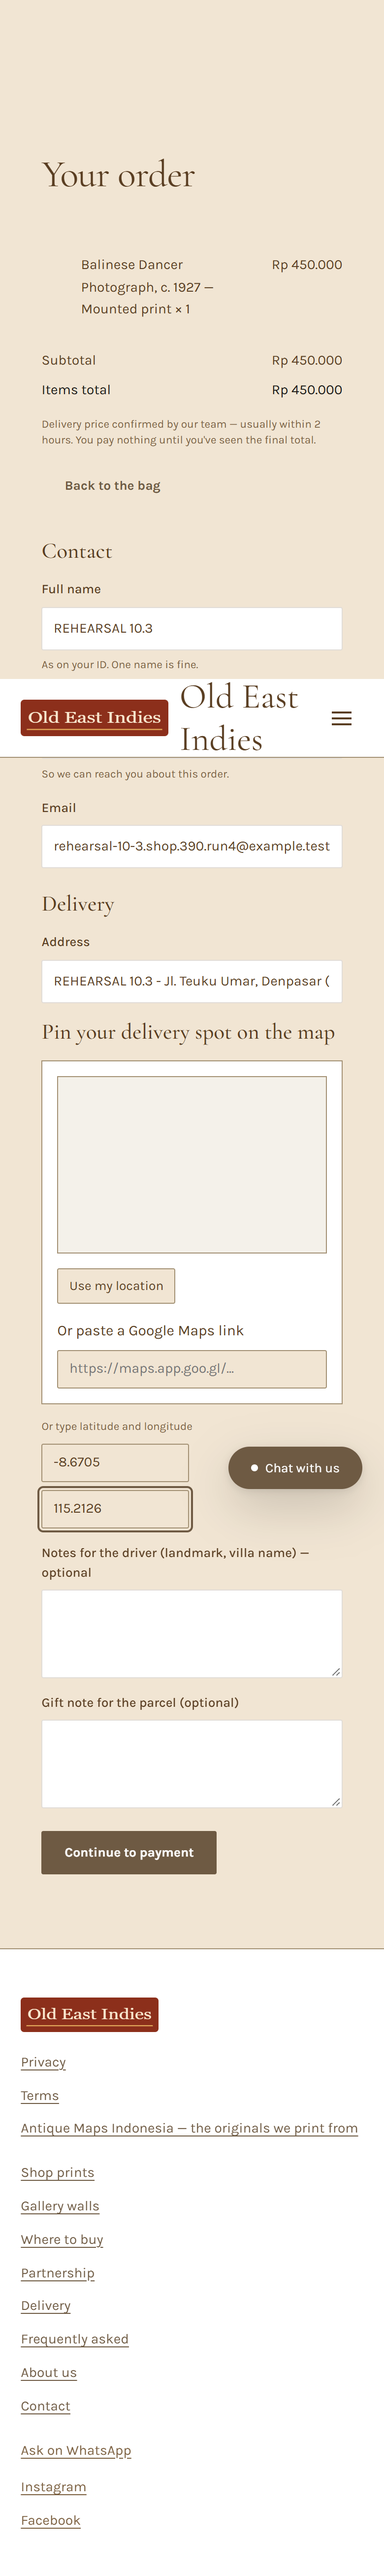
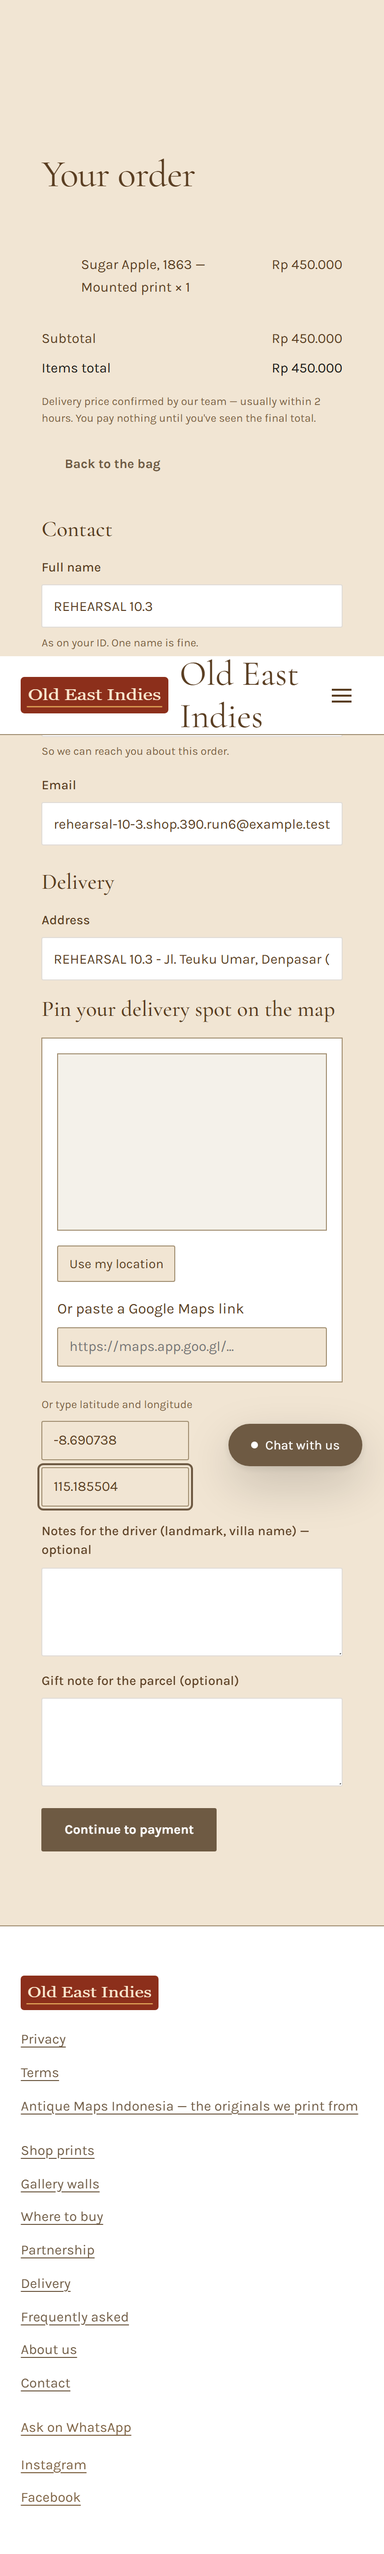
docs(gates): 10.3 rehearsal recorded — restore drill PASS (816 s down, every row, object and sample identical), the staff steps on staging 8/8 (buyer pinned on DPS-004), runbook rollback and chat switch followed; first drill's 25,146 missing tiles found and restored; tracking tokens redacted from th

diff --git a/tests/e2e/rehearsal/shop.spec.ts b/tests/e2e/rehearsal/shop.spec.ts
@@ -4,31 +4,37 @@
  * pays through the simulator; the store moves it processing → waiting for driver → driver image →
  * on the way → delivered, and the tracking page shows each step. The staff steps are the 7.4
  * gate's (`tests/e2e/shop-fulfilment/flow.spec.ts`) driven the same way, and need staging
- * accounts from the environment: E2E_OWNER_* and E2E_STORE_A_* (a user of the store nearest the
- * pin); the order number is read off the awaiting-quote page. Without them those
+ * accounts from the environment: E2E_OWNER_* and E2E_STORE_A_* (a DPS-004 user; the pin is on DPS-004 and
+ * the product is one it stocks, `support.ts`); the order number is read off the awaiting-quote page. Without them those
  * steps fail with BLOCKED; nothing is invented and no user is created on staging.
  */
 import { expect, test, type APIRequestContext, type Page } from '@playwright/test'
 
-import { need, PIN, record, REHEARSAL_NAME, rehearsalEmail, SHOP, shoot, widthOf } from './support'
+import {
+  need,
+  PIN,
+  PRODUCT,
+  record,
+  REHEARSAL_NAME,
+  rehearsalEmail,
+  SHOP,
+  shoot,
+  widthOf,
+} from './support'
 
 const FEE_IDR = 15_000
 
 const rupiah = (text: string): number => Number(text.replace(/\D/g, ''))
 
-/** The first listed product that is sellable: add button enabled (its first variant is preselected). */
+/** The rehearsal's product, stocked by store A: listed, and its add button enabled (first variant preselected). */
 async function sellableSlug(request: APIRequestContext): Promise<string> {
-  const list = await request.get(`${SHOP}/shop`)
-  expect(list.status(), 'shop listing').toBe(200)
-  const slugs = [...new Set([...(await list.text()).matchAll(/href="\/product\/([^"/?#]+)"/g)])]
-    .map((m) => m[1]!)
-    .slice(0, 20)
-  for (const slug of slugs) {
-    const res = await request.get(`${SHOP}/product/${slug}`)
-    const html = res.status() === 200 ? await res.text() : ''
-    if (html.includes('Add to bag') && !/addButton"[^>]*disabled/.test(html)) return slug
-  }
-  throw new Error('no sellable product among the first 20 listed')
+  const res = await request.get(`${SHOP}/product/${PRODUCT}`)
+  expect(res.status(), `the product ${PRODUCT}`).toBe(200)
+  const html = await res.text()
+  expect(html.includes('Add to bag') && !/addButton"[^>]*disabled/.test(html), 'sellable').toBe(
+    true,
+  )
+  return PRODUCT
 }
 
 async function signIn(page: Page, email: string, password: string): Promise<void> {

diff --git a/tests/e2e/rehearsal/support.ts b/tests/e2e/rehearsal/support.ts
@@ -20,8 +20,14 @@ export const RUN =
 export const rehearsalEmail = (part: string, width: number): string =>
   `rehearsal-10-3.${part}.${width}.${RUN}@example.test`
 
-/** Denpasar, Bali: the pin the 7.x gates used. */
-export const PIN = { lat: -8.6705, lng: 115.2126 }
+/**
+ * The buyer's pin: exactly on DPS-004 (Denpasar), the store of the E2E_STORE_A_* user, so the nearest store with
+ * stock is that store whenever it stocks the product. With the real catalogue's stock (10.6) the 7.x gates' pin
+ * routed to DPS-005, whose staff have no rehearsal account.
+ */
+export const PIN = { lat: -8.690738, lng: 115.185504 }
+/** A design DPS-004 stocks (its first variant, mounted: 4 on 2026-10-09, one per width per run). */
+export const PRODUCT = process.env.REHEARSAL_PRODUCT ?? 'sugar-apple-1863'
 
 export const widthOf = (info: TestInfo): number => (info.project.name === 'mobile' ? 390 : 1280)
 

diff --git a/docs/gates/rehearsal.md b/docs/gates/rehearsal.md
@@ -1,7 +1,7 @@
 # Gate — the staging rehearsal and the restore drill (10.3)
 
 **Task:** TASKS.md 10.3 · **Environment:** Helios staging (`indies-gallery.gaiada.com`,
-`old-east-indies.gaiada.com`) · **Status:** skeleton; the orchestrator fills the `TODO` cells as each part is run.
+`old-east-indies.gaiada.com`) · **Status:** run 2026-10-08/09 on release `e8597fd7`; the Check is met (§10.3.e), with the open items below.
 
 **The Check (10.3.e):** this file records the run, the restore timing and verification, and the runbook has been
 followed by someone other than its author.
@@ -26,94 +26,113 @@ the run and overwrite the cells that moved.
 | Orders · users · discounts  | `orders` · `users` · `discounts` | 18 · 3 · 0 |                     |                                                                                       |
 | Tables · migrations applied |                                  |    107 · 6 |                     |                                                                                       |
 
-| Check                                                              | Result                                     |
-| ------------------------------------------------------------------ | ------------------------------------------ |
-| Both sites run against this data (`/api/health` 200 on each host)  | TODO                                       |
-| A gallery item page and a shop product page open with their images | TODO                                       |
-| Release in service                                                 | TODO (`readlink -f /home/uindies/current`) |
+| Check                                                              | Result                                                                                                            |
+| ------------------------------------------------------------------ | ----------------------------------------------------------------------------------------------------------------- |
+| Both sites run against this data (`/api/health` 200 on each host)  | 200 and `ok` on both, before and after the drill (health.spec, runs 1–5)                                          |
+| A gallery item page and a shop product page open with their images | `/product/200` and `/product/746` (gallery), `sugar-apple-1863` and the Lighthouse product (shop), AVIF rungs 200 |
+| Release in service                                                 | `deploy_production-20261008T143718Z-e8597fd7`                                                                     |
 
 ## 10.3.b The launch rehearsal
 
 The journeys, step by step, with evidence per step: [rehearsal/journeys.md](rehearsal/journeys.md) (written by qa).
 
-| Part                                                                  | Where          | Result |
-| --------------------------------------------------------------------- | -------------- | ------ |
-| A release through the pull pipeline (staging-release.md steps 1 to 6) | the runbook §2 | TODO   |
-| Health on both hosts after the release                                | runbook §1     | TODO   |
-| Gallery: search, ask, lead                                            | journeys.md    | TODO   |
-| Shop: buy, fulfil, track                                              | journeys.md    | TODO   |
-| The AI chat on each site                                              | journeys.md    | TODO   |
+| Part                                                                  | Where          | Result                                                                                                                                                                                                      |
+| --------------------------------------------------------------------- | -------------- | ----------------------------------------------------------------------------------------------------------------------------------------------------------------------------------------------------------- |
+| A release through the pull pipeline (staging-release.md steps 1 to 6) | the runbook §2 | `e8597fd7` built on Helios and deployed, `DEPLOY-DONE` healthy, smoke passed (staging-release.md)                                                                                                           |
+| Health on both hosts after the release                                | runbook §1     | 200 / 200                                                                                                                                                                                                   |
+| Gallery: search, ask, lead                                            | journeys.md    | pass at 390 and 1280; the owner reads the leads in the admin (run 5: leads 58, 59)                                                                                                                          |
+| Shop: buy, fulfil, track                                              | journeys.md    | **8/8 at 390 and 1280** (run 6, orders 100032, 100033): placed, the owner prices delivery, paid in the simulator, DPS-004's store user moves it to delivered, tracking shows each step and the driver image |
+| The AI chat on each site                                              | journeys.md    | pass at 390 (runs 1–2; 6 sessions/IP/hour keeps it to one per site per run)                                                                                                                                 |
+
+Run 5 (all journeys with the staging accounts from `/etc/indies/staging-admin/e2e-users.env`, never printed): 18/20 —
+the store step failed because the order routed to **DPS-005**, the nearest store stocking that design under the
+real catalogue's stock (10.6), while the rehearsal store account is DPS-004's. Correct routing, wrong test
+assumption: the spec now pins the buyer on DPS-004 and buys a design DPS-004 stocks (`support.ts`), and run 6
+passed 8/8.
 
 ## 10.3.c The restore drill
 
 Run by `scripts/ops/restore-drill.sh` on Helios (runbook §4.1), as root, detached. Its log is
 `/var/backups/indies/drill-<stamp>/drill.log`; the last line is `RESULT: PASS` or `RESULT: FAIL`.
 
-|               |                                                                           |
-| ------------- | ------------------------------------------------------------------------- |
-| Run           | TODO stamp, start and end (UTC) · script sha256 · the commit it came from |
-| Dry run first | TODO paste its `all checks pass` line                                     |
-| Result line   | TODO `RESULT: PASS`                                                       |
+|               |                                                                                                                        |
+| ------------- | ---------------------------------------------------------------------------------------------------------------------- |
+| Run           | `drill-20261008T161047Z`, 16:10:48 to 16:26:41 UTC, 2026-10-08 · script sha256 `8b8297a6e087fc2c…` · commit `61a93a4c` |
+| Dry run first | `[15:52:58] dry run: all checks pass, nothing was changed`                                                             |
+| Result line   | `RESULT: PASS. indies_db_predrill_20261008t161047z stays until dropped by hand.`                                       |
 
 **Timings** (the log's `TIMINGS`, seconds since start; the app is down from `app_stopped` to `up`):
 
-| Step                                               | Mark              | Seconds |
-| -------------------------------------------------- | ----------------- | ------: |
-| Bucket copied (app running)                        | `bucket_copied`   |    TODO |
-| App stopped                                        | `app_stopped`     |    TODO |
-| Backed up (dump and the objects written meanwhile) | `backed_up`       |    TODO |
-| Wiped                                              | `wiped`           |    TODO |
-| Database restored                                  | `db_restored`     |    TODO |
-| Bucket restored                                    | `bucket_restored` |    TODO |
-| Evidence taken                                     | `verified`        |    TODO |
-| App up and healthy                                 | `up`              |    TODO |
-| **Downtime** (`app_stopped` to `up`)               |                   |    TODO |
-| **Recovery time** (`wiped` to `up`)                |                   |    TODO |
+| Step                                      | Mark              |                                   Seconds |
+| ----------------------------------------- | ----------------- | ----------------------------------------: |
+| Bucket copied (app running, 7.6 GiB)      | `bucket_copied`   |                                       135 |
+| App stopped                               | `app_stopped`     |                                       136 |
+| Backed up (dump 3.3 MB, 1,375 entries)    | `backed_up`       |                                       254 |
+| Wiped (79,476 objects by key, 80 batches) | `wiped`           |                                       698 |
+| Database restored                         | `db_restored`     |                                       699 |
+| Bucket restored                           | `bucket_restored` |                                       830 |
+| Evidence taken                            | `verified`        |                                       946 |
+| App up and healthy (try 2)                | `up`              |                                       952 |
+| **Downtime** (`app_stopped` to `up`)      |                   |                     **816** (13 min 36 s) |
+| **Recovery time** (`wiped` to `up`)       |                   | **254** (4 min 14 s; restore alone 132 s) |
 
 **Verification** (each diff is `before` against `after`, taken with the app stopped):
 
-| Evidence                                                   | Before                                                  | After | Same? |
-| ---------------------------------------------------------- | ------------------------------------------------------- | ----- | ----- |
-| Rows in each of the public tables                          | TODO tables, rows (first run: 107 tables, 127,795 rows) | TODO  | TODO  |
-| Objects, keys and sizes                                    | TODO (first run: 79,476)                                | TODO  | TODO  |
-| One derivative image: sha256, content type, Cache-Control  | TODO                                                    | TODO  | TODO  |
-| An `iiif` tile and an upload (sample.keys)                 | TODO                                                    | TODO  | TODO  |
-| Database owner and ACL                                     | TODO                                                    | TODO  | TODO  |
-| `/api/health` on both hosts                                |                                                         | TODO  |       |
-| An item page and a product page, with images, in a browser |                                                         | TODO  |       |
+| Evidence                                                             | Before                                                            | After                                  | Same?          |
+| -------------------------------------------------------------------- | ----------------------------------------------------------------- | -------------------------------------- | -------------- |
+| Rows in each of the public tables                                    | 107 tables, 127,956 rows                                          | 107 tables, 127,956 rows               | yes, per table |
+| Objects, keys and sizes                                              | 79,476                                                            | 79,476                                 | yes            |
+| A derivative (`1024.avif`, `1024.webp`): sha256, type, Cache-Control | `7851efaf…` / `5127c7d5…`, `image/avif` / `image/webp`, immutable | same                                   | yes            |
+| An `iiif` `info.json` and tile, an upload (`uploads/10-169.jpg`)     | `3bddb830…`, `54b91b68…`, `3788e0c2…`                             | same                                   | yes            |
+| Database owner and ACL                                               | `indies`, `{indies=CTc/indies}`                                   | `indies`, `{indies=CTc/indies}`        | yes            |
+| `/api/health` on both hosts                                          |                                                                   | 200 on both (try 2)                    |                |
+| An item page and a product page, with images, in a browser           |                                                                   | the 10.3.b run after the drill (below) |                |
 
-**First run, 2026-10-08 (not a pass, and why it matters).** RustFS was killed for memory twice by the recursive
-list and delete over about 79,000 objects (its cap was 2 GB), and `pg_restore` could not read the root-only dump.
-The drill was finished by hand. The script now deletes by key, retries and waits for RustFS, reads the dump on stdin,
-and takes the after-evidence before the app starts. TODO: the clean run replaces this paragraph.
+**The first run, 2026-10-08 12:17 UTC (failed; finished by hand by an earlier session).** RustFS was killed for
+memory twice by a recursive list and delete over ~79,000 objects (cap 2 GB), and `pg_restore` as `postgres` could
+not read the root-only dump. The database came back whole (counts identical but for 18 new `events`), but **the
+hand-finish never put `iiif/` back: 25,146 zoom tiles were missing** until the orchestrator found them by comparing
+the object list with the first run's before-list and mirrored them back from its copy (15:46 UTC; 55,503 tiles, 0
+differences across all 79,476 objects after). Fixed since: RustFS `MemoryMax` 6 GB (Helios drop-in
+`50-memory.conf` and `scripts/ops/lib/rustfs.sh`; a listing peaks at ~2.2 GB anon); the script deletes by key, reads
+the dump on stdin, compares every object before passing, and guards with a lock (`pgrep` matched the script's own
+subshell). This is what a drill is for: the half-done first run would have passed a "the site is up" check.
 
 ## 10.3.d The runbook
 
 [ops/runbook.md](../ops/runbook.md): deploy, roll back, restore, rotate a secret, kill the chat, handle a late
 payment. **Written by** devops agent, 2026-10-08.
 
-| Job                  | Followed by | Date | Worked? | Steps that were wrong or unclear |
-| -------------------- | ----------- | ---- | ------- | -------------------------------- |
-| Deploy (§2)          | TODO        | TODO | TODO    | TODO                             |
-| Roll back (§3)       | TODO        | TODO | TODO    | TODO                             |
-| Restore (§4.1, §4.2) | TODO        | TODO | TODO    | TODO                             |
-| Rotate a secret (§5) | TODO        | TODO | TODO    | TODO                             |
-| Kill the chat (§6)   | TODO        | TODO | TODO    | TODO                             |
-| Late payment (§7)    | TODO        | TODO | TODO    | TODO                             |
+| Job                  | Followed by  | Date       | Worked? | Steps that were wrong or unclear                                                                                                                                                                                          |
+| -------------------- | ------------ | ---------- | ------- | ------------------------------------------------------------------------------------------------------------------------------------------------------------------------------------------------------------------------- |
+| Deploy (§2)          | orchestrator | 2026-10-08 | yes     | none (it points at staging-release.md, which was followed step by step)                                                                                                                                                   |
+| Roll back (§3)       | orchestrator | 2026-10-09 | yes     | none: back to `7733d424` healthy in 6 s (no AVIF on `/shop`: the old code served), forward to `e8597fd7` healthy in 6 s                                                                                                   |
+| Restore (§4.1)       | orchestrator | 2026-10-08 | yes     | the drill's `pgrep` guard failed every run from a file; replaced with a lock before the run                                                                                                                               |
+| Kill the chat (§6)   | orchestrator | 2026-10-09 | yes     | the click path: it is one **Site settings** page with an **Indies Gallery** and an **Old East Indies** section, not "Settings → Gallery / Shop" (fixed). Off: the gallery's chat answered `503 disabled` at once; back on |
+| Rotate a secret (§5) | —            |            | not run | read only: rotating on staging logs every user out; walk it with the owner's team at handover (11.4.b)                                                                                                                    |
+| Late payment (§7)    | —            |            | not run | it describes the code, which **does not do what COMMERCE.md §13 says** (finding R-1 below)                                                                                                                                |
 
-**Followed by:** TODO a person other than the author, not the agent that wrote it. Fix every wrong step in the
-runbook, then re-run that step.
+**Followed by:** the orchestrator, not the devops agent that wrote it, for deploy, rollback, restore and the chat
+switch. Before launch a person of the owner's team should follow §1–§3 and §6 once (11.4.b's handover).
 
 ## 10.3.e Verdict
 
-| Clause                                                             | Met? |
-| ------------------------------------------------------------------ | ---- |
-| The run is recorded (a, b)                                         | TODO |
-| The restore timing and verification are recorded (c)               | TODO |
-| The runbook has been followed by someone other than its author (d) | TODO |
+| Clause                                                             | Met?                                                                       |
+| ------------------------------------------------------------------ | -------------------------------------------------------------------------- |
+| The run is recorded (a, b)                                         | yes                                                                        |
+| The restore timing and verification are recorded (c)               | yes: PASS, 816 s down, every row, object and sample identical              |
+| The runbook has been followed by someone other than its author (d) | yes for deploy, rollback, restore and the chat switch; §5 and §7 read only |
 
 ## Open
 
+- **R-1, late payment (for 11.1).** COMMERCE.md §13: a payment after expiry re-takes the units if the same store
+  still has them and the order becomes `paid`. The code (`shop/payments/decide.ts`, `late-payment`) only flags the
+  order and leaves it `expired`; staff have no control to clear the flag. A money and stock core: fix with an Opus
+  review before live payments.
+- **Staging contact details are placeholders** (`wa.me/6281100000000`, `gallery@example.com`): OA2, 11.2.b.
+- **Rehearsal data on staging**, all marked REHEARSAL 10.3: leads 58, 59 and nine earlier (by email
+  `rehearsal-10-3.*@example.test`), orders 100019–100033 (100032 and 100033 delivered, the rest priced or awaiting a
+  price; 100030–100031 paid at DPS-005). Remove before the client review or leave as examples.
 - The off-box backup target does not exist (DEPLOYMENT.md §9): the drill proves the on-host restore only.
-- The drill leaves `indies_db_predrill_<stamp>` and the `drill-<stamp>` folder (about 8 GiB) on the host until
-  someone drops them by hand.
+- The drill leaves `indies_db_predrill_<stamp>` and the `drill-<stamp>` folder (8.4 GiB) on the host until someone
+  drops them by hand: two of each now (12:17 and 16:10 UTC, 2026-10-08).

diff --git a/docs/ops/runbook.md b/docs/ops/runbook.md
@@ -145,9 +145,11 @@ The kill switch is `ai.chatEnabled` per site (AI.md §1). It takes effect at the
 launcher becomes plain WhatsApp and email buttons.
 
 1. Sign in at `https://old-east-indies.gaiada.com/admin` (the admin host; the gallery host answers 404 there).
-2. **Settings → Gallery**: open the **AI** group, untick **Chat enabled**, **Save**. Repeat under **Settings → Shop**.
-3. **Worked:** open `$G/` and `$S/` in a private window: no chat launcher, only the contact buttons. A request to
-   the chat answers `disabled`.
+2. **Site settings** (the Settings group in the side menu, owner only): under **Indies Gallery** → **AI** untick
+   **Chat enabled**, and under **Old East Indies** → **AI** the same, then **Save** once (one page holds both sites).
+3. **Worked:** reload the page and the box stays unticked; a chat request answers `503` with code `disabled` ("The
+   assistant is switched off…") and the panel shows the contact buttons. Checked on staging 2026-10-09: the
+   gallery's switch took effect on the next request, no restart.
 4. **Turn it back on:** tick **Chat enabled** and Save. Do this only after the cause is understood.
 
 If the admin is unreachable, remove the key: `ssh -t helios "sudo -u uindies nano /home/uindies/shared/.env"`, blank

diff --git a/docs/gates/rehearsal/journeys.md b/docs/gates/rehearsal/journeys.md
@@ -1,5 +1,7 @@
 # 10.3.b launch rehearsal, the journeys (staging)
 
+> **Update 2026-10-09 (orchestrator): the staff steps ran and pass.** With the staging accounts from Helios (`/etc/indies/staging-admin/e2e-users.env`), run 5 passed every step but the store's (the order routed to DPS-005, correctly; the store account is DPS-004's). The spec now pins the buyer on DPS-004 and buys a design it stocks; run 6: **8/8 at 390 and 1280**, orders 100032 and 100033 delivered and tracked. The BLOCKED rows below are superseded; details in [../rehearsal.md](../rehearsal.md) §10.3.b.
+
 QA, 2026-10-08/09, against staging `https://indies-gallery.gaiada.com` and `https://old-east-indies.gaiada.com`, release
 `production-20261008T143718Z-e8597fd7` (`readlink -f /home/uindies/current` named `...-e8597fd7` before and after every run;
 no 502 was met). Suite: `tests/e2e/rehearsal/` (`playwright.config.ts`; projects `mobile` 390x844 and `desktop` 1280x800;
